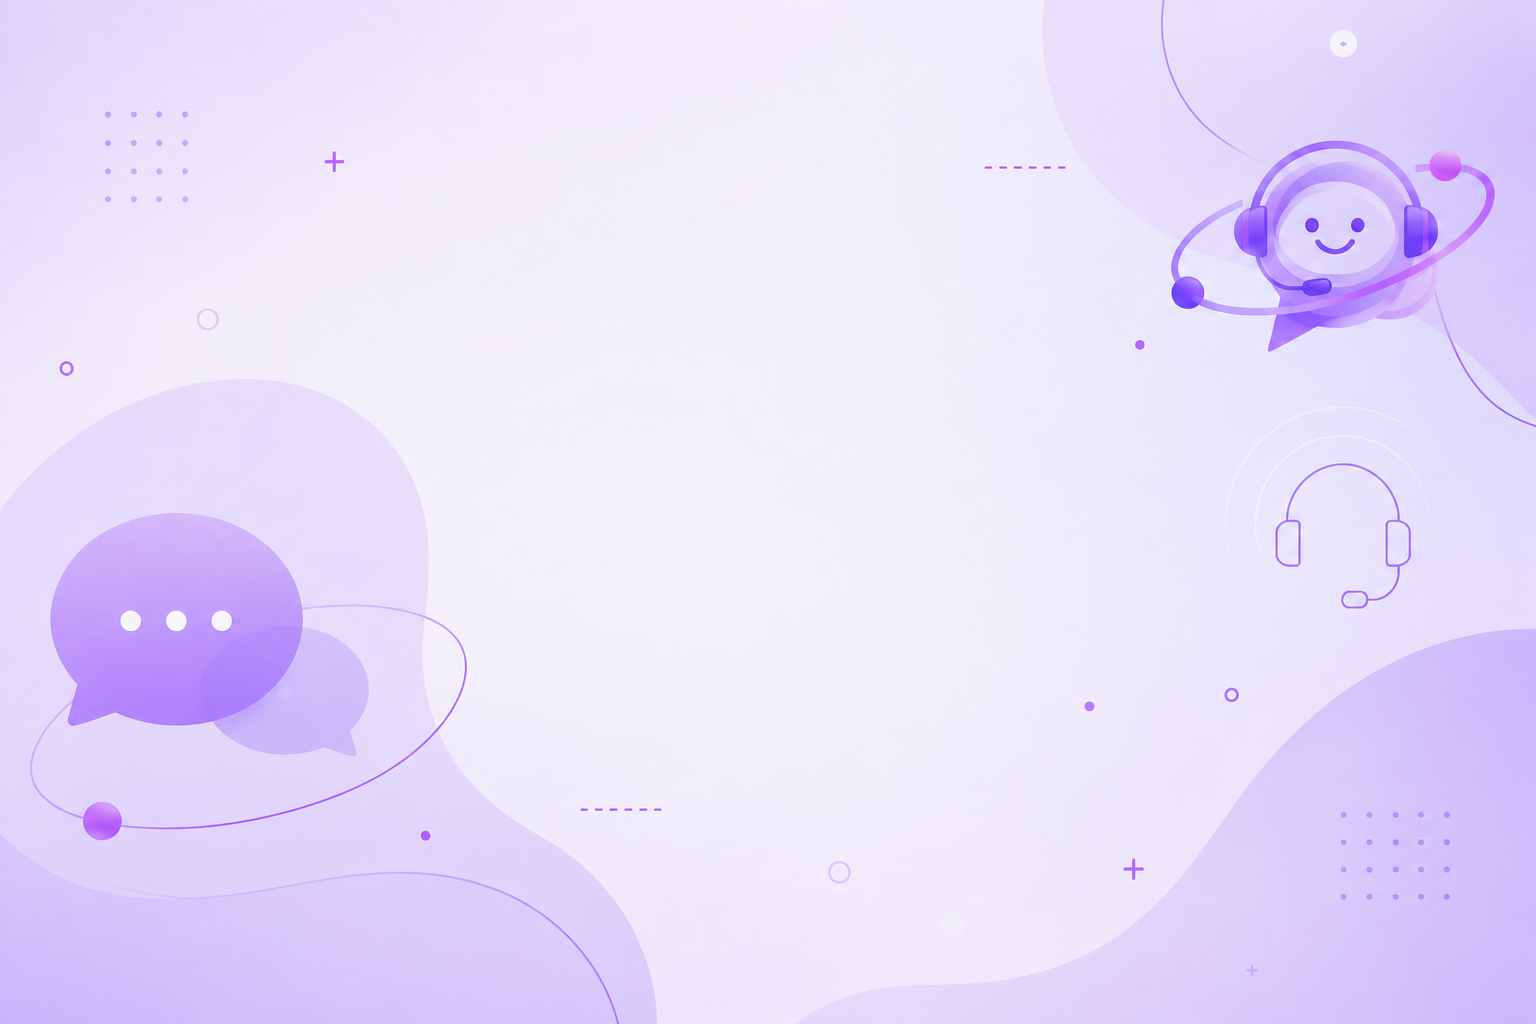
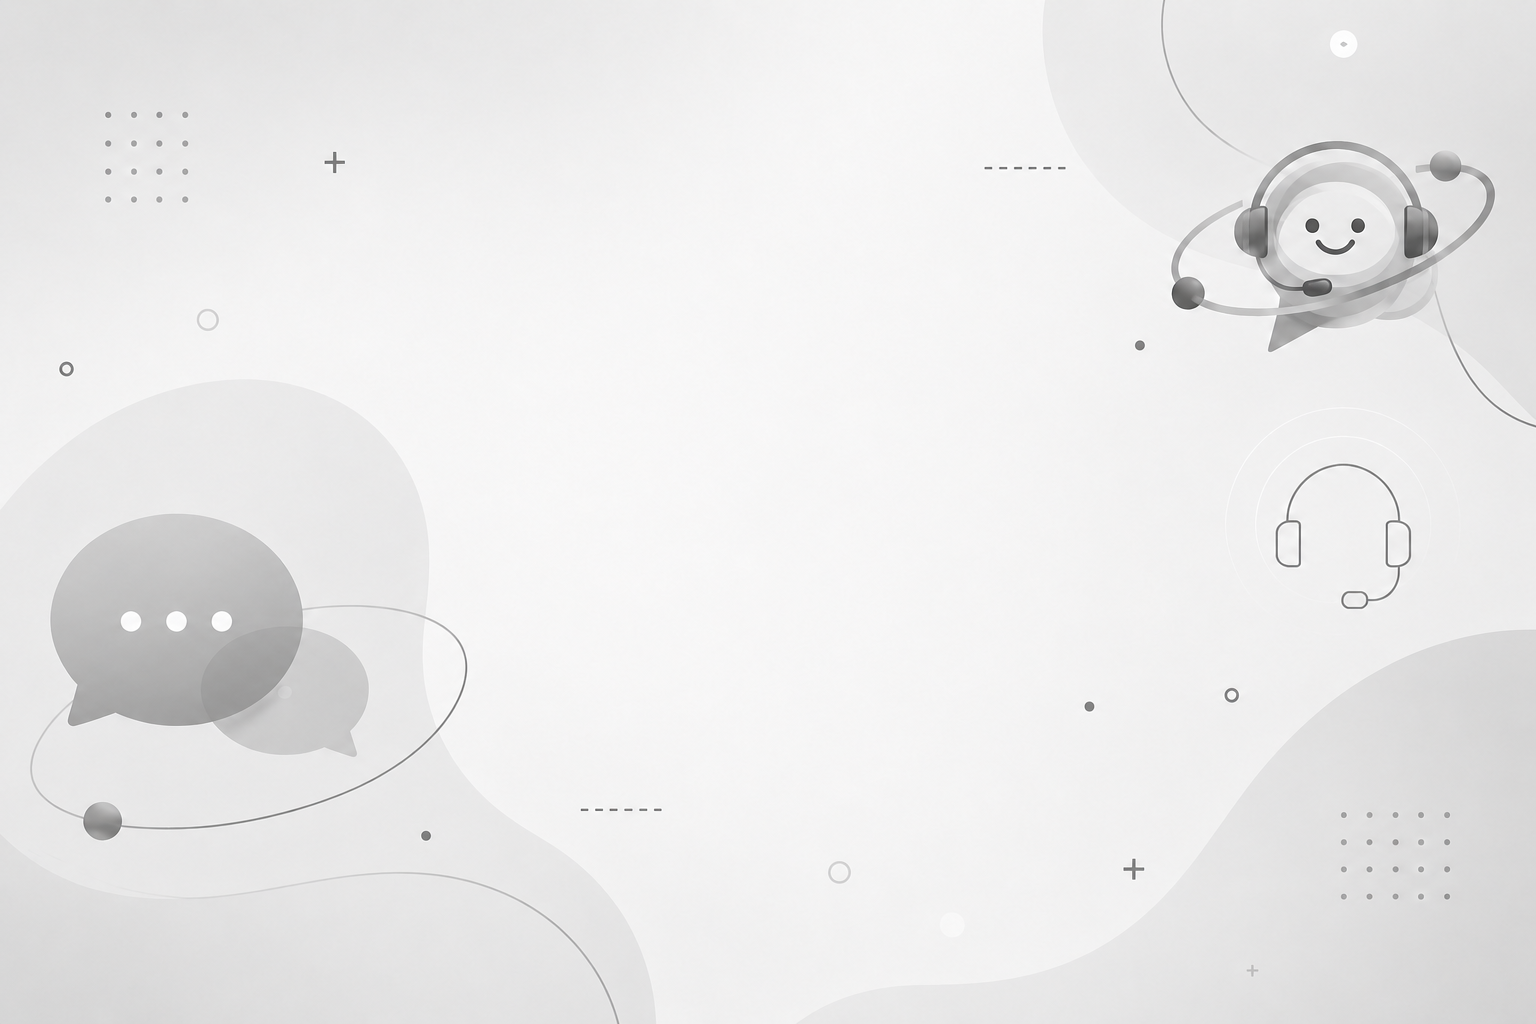
feat: Alteração do background de login

diff --git a/css/login.css b/css/login.css
@@ -28,17 +28,6 @@ body{
     justify-content: center;
 }
 
-.login-titulo {
-    position: absolute;
-    top: 20px;
-    left: 20px;
-
-    color: #5b21b6;
-    font-size: 40px;
-    font-weight: bold;
-    margin: 0;
-}
-
 /* PAINEL LOGIN */
 
 .login-panel{

diff --git a/telas/login.html b/telas/login.html
@@ -11,8 +11,6 @@
 
     <div class="container">
 
-        <h1 class="login-titulo">Log in</h1>
-
         <!-- Painel Login -->
         <div class="login-panel">
             <h1>Acesso</h1>
